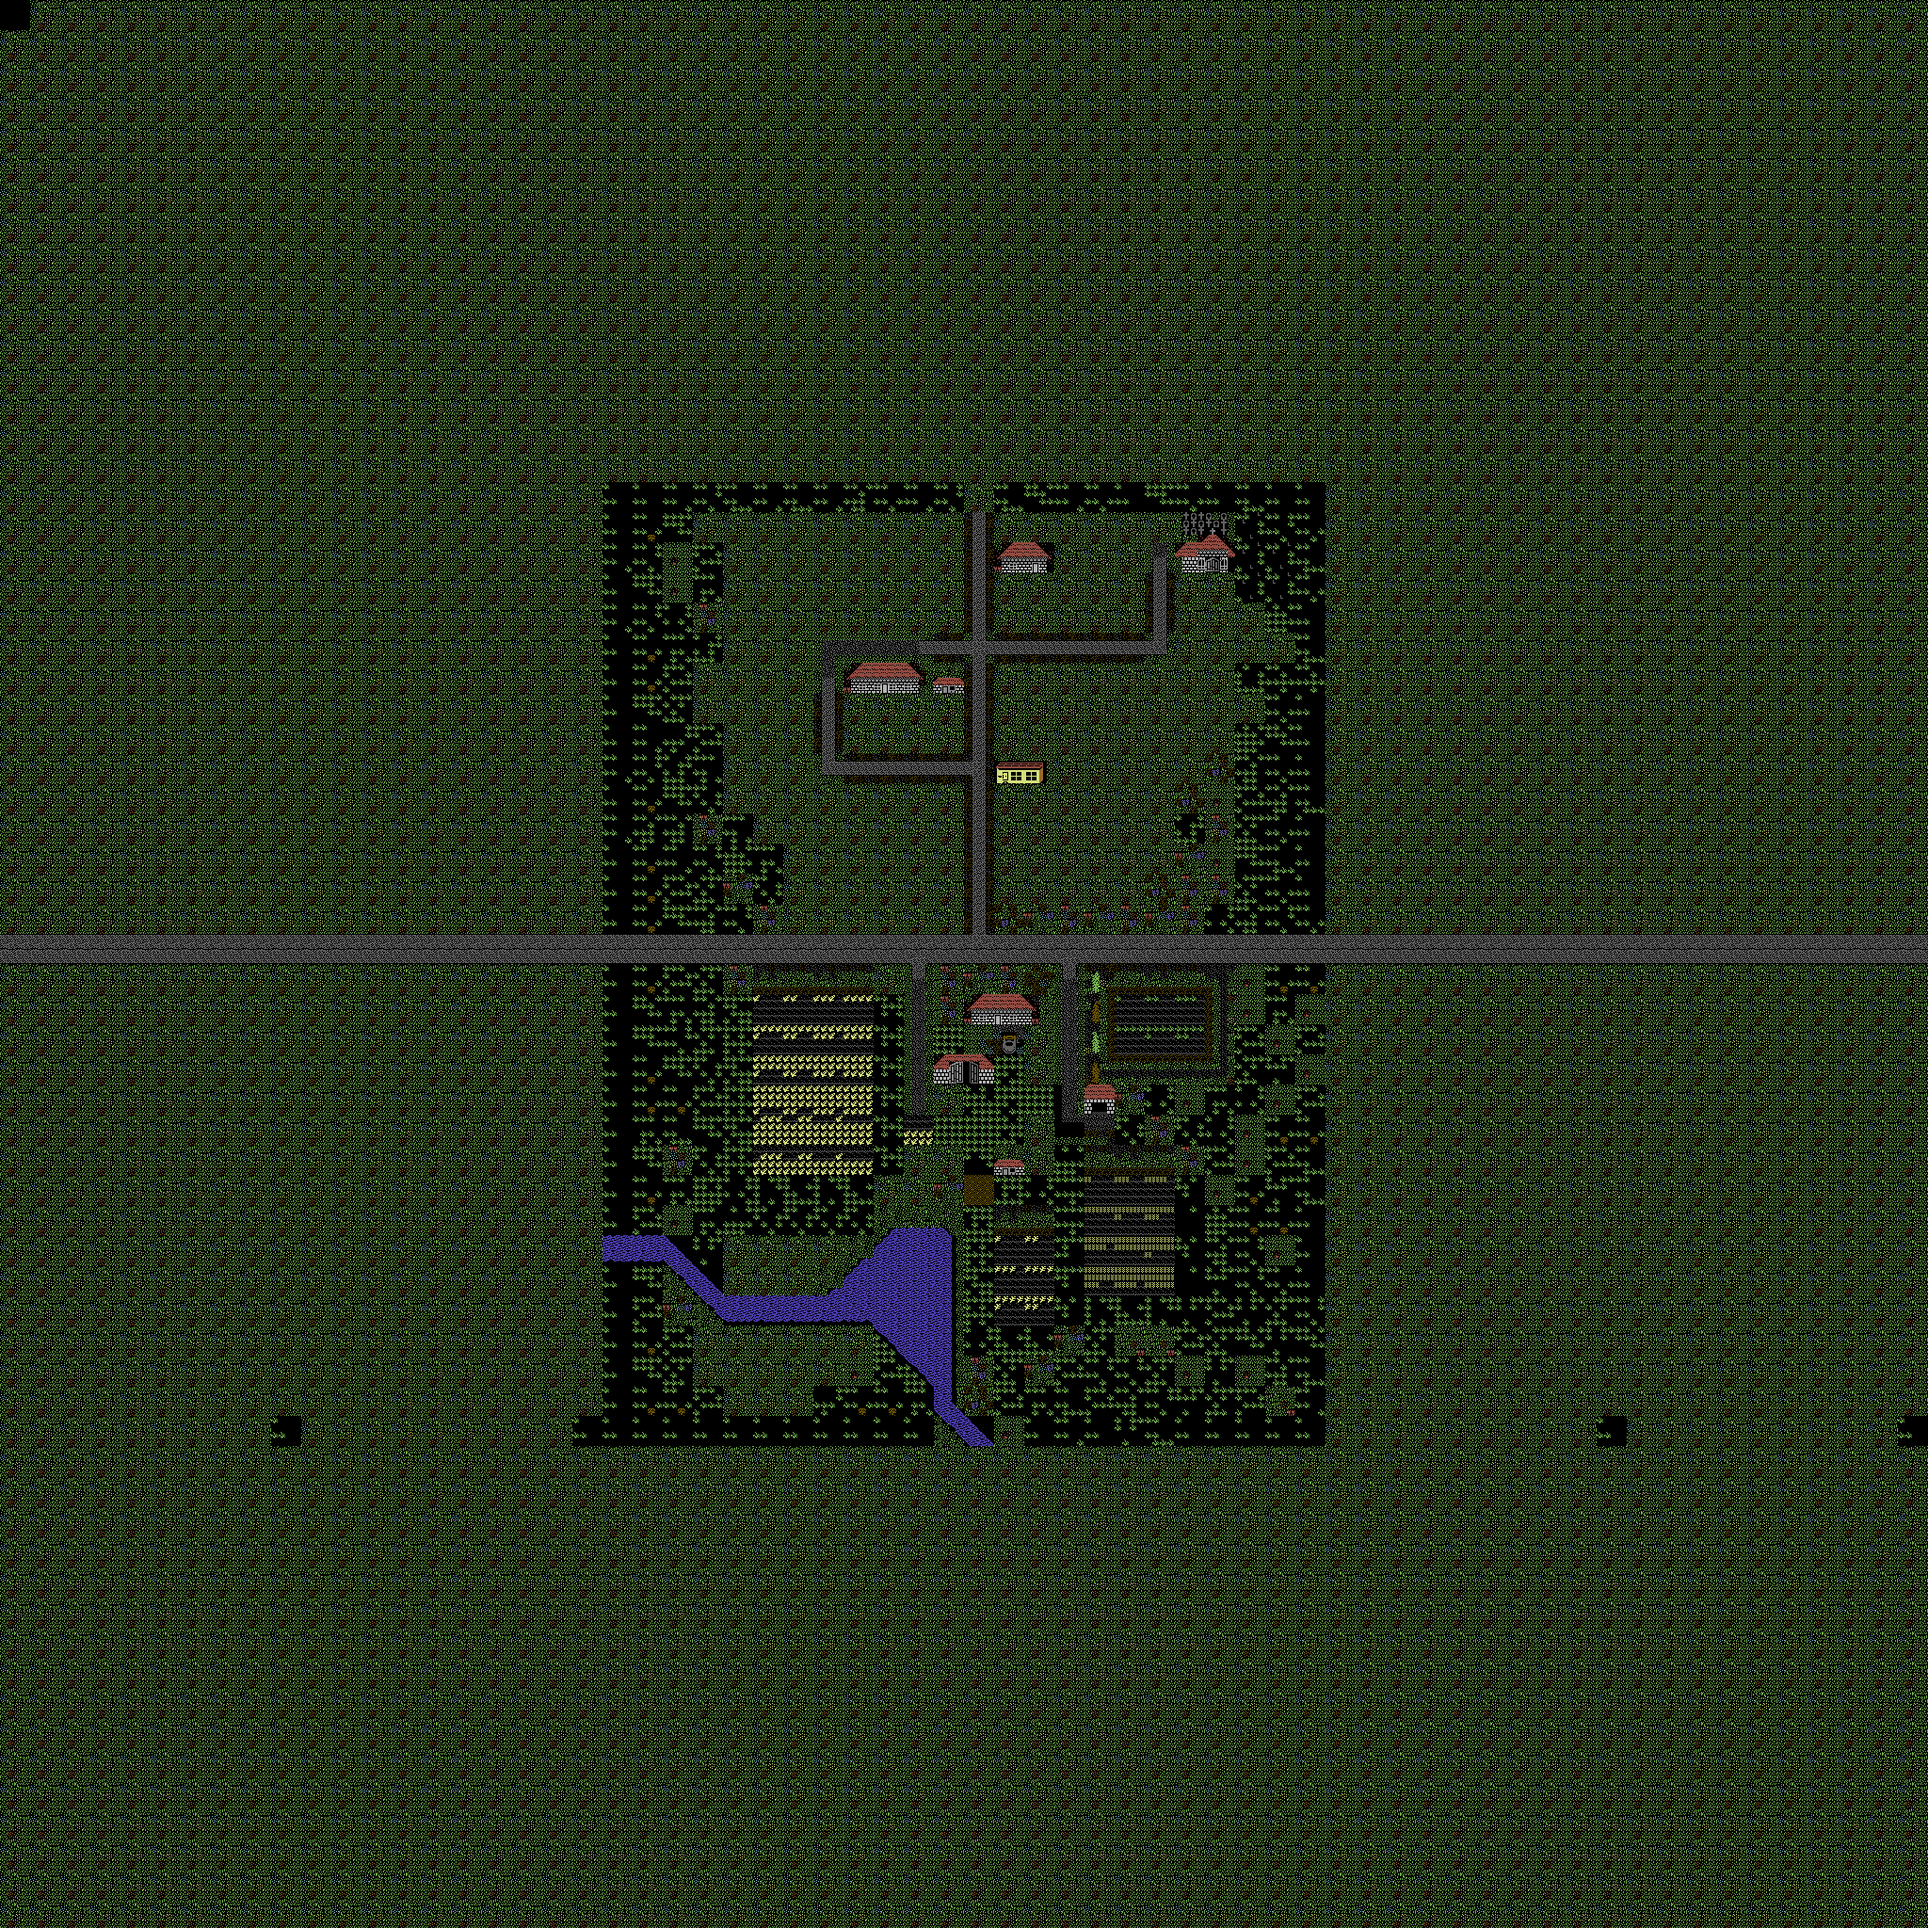
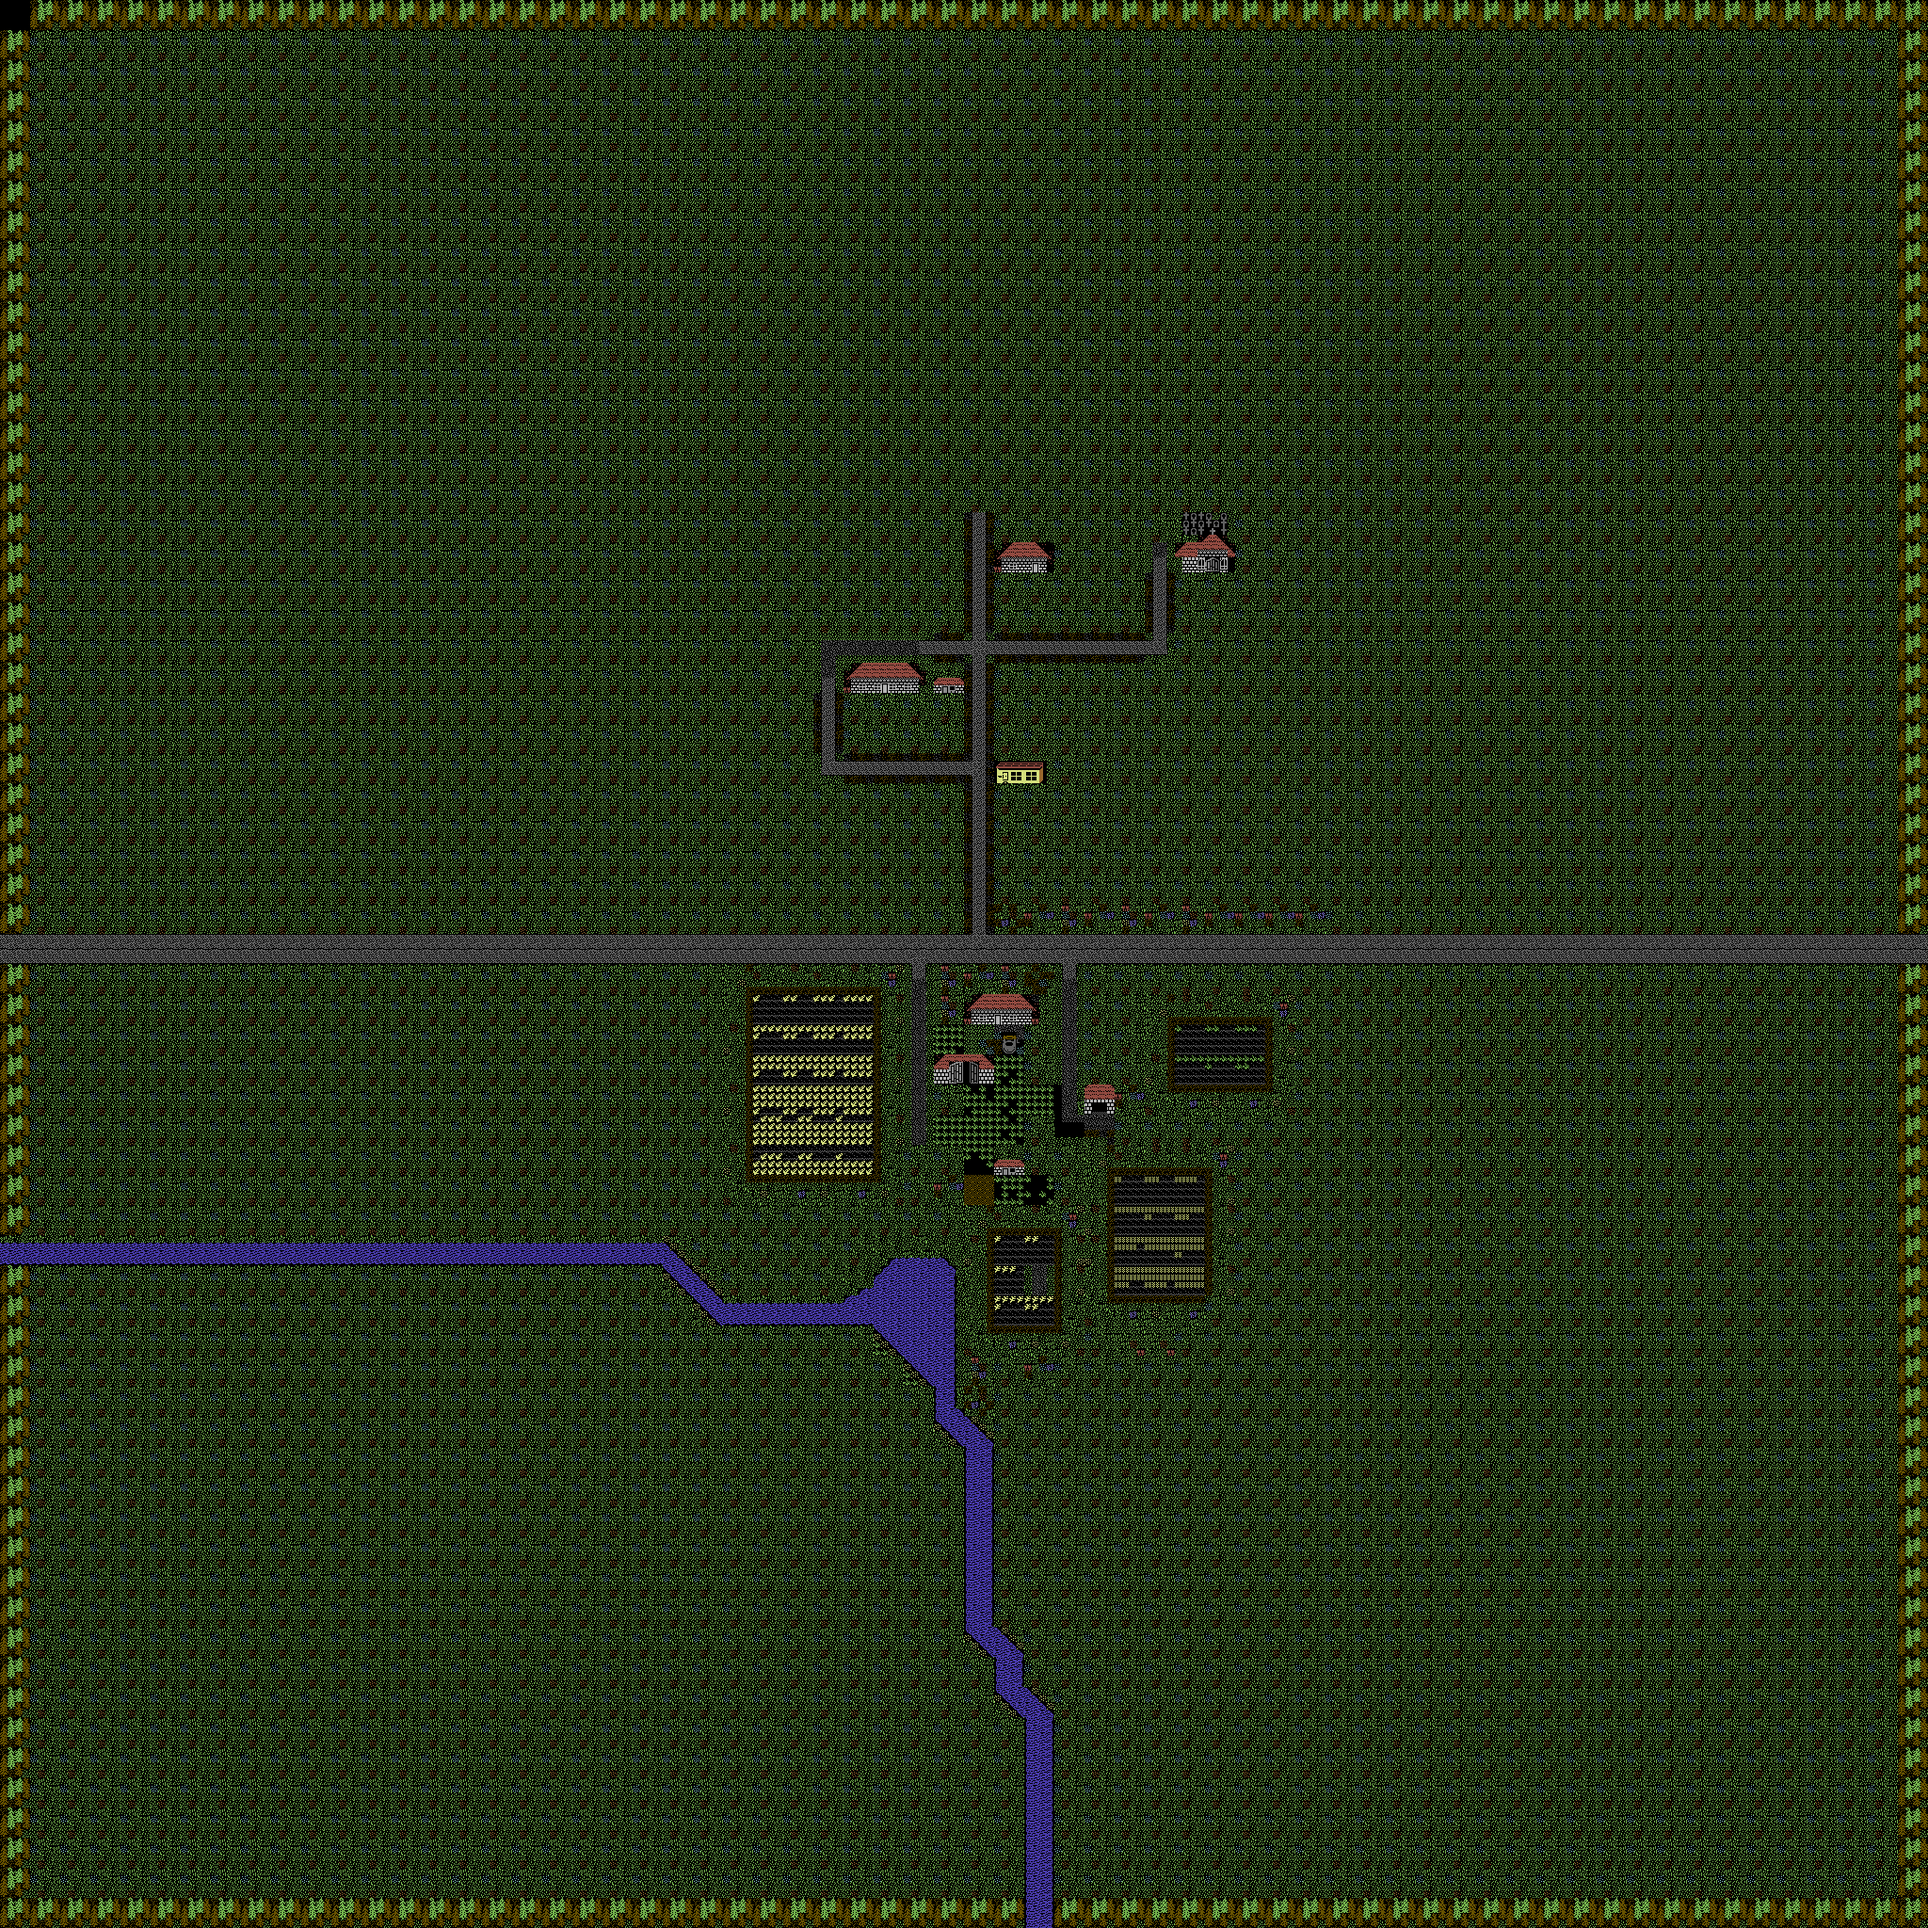
new maps

Changed region(s): [[0.0, 0.0, 1.0, 1.0], [0.8125, 0.7188, 0.8438, 0.75], [0.125, 0.7188, 0.1562, 0.75]]

diff --git a/miniGame/villiageMapMain.c b/miniGame/villiageMapMain.c
@@ -28,13 +28,13 @@ static const char _charAttribsL2[] = {
     #embed ctm_attr1    "assets/charGfx/HiresVilliage_L2.ctm"
 };
 static const char _charAttribsL3[] = {
-    #embed ctm_attr1    "assets/charGfx/VilliageMapHiresMainBig.ctm"
+    #embed ctm_attr1    "assets/charGfx/HiresVilliage_L3.ctm"
 };
 static const char _charAttribsL4[] = {
     #embed ctm_attr1    "assets/charGfx/HiresVilliage_L4.ctm"
 };
 static const char _chars[] = {
-    #embed ctm_chars    "assets/charGfx/VilliageMapHiresMainBig.ctm"
+    #embed ctm_chars    "assets/charGfx/HiresVilliage_L1.ctm"
 };
 
 
@@ -69,10 +69,10 @@ static void _mapInit(){
     // ROM on, I/O off - as we will copy to RAM under I/O ports
     mmap_set(0b00110011);
     memcpy(GFX_1_FNT2, _chars, sizeof(_chars));
-    memcpy(COLOR_MAP_1, _charAttribsL1, 0xff);
-    memcpy(COLOR_MAP_2, _charAttribsL2, 0xff);
-    memcpy(COLOR_MAP_3, _charAttribsL3, 0xff);
-    memcpy(COLOR_MAP_4, _charAttribsL4, 0xff);
+    memcpy(COLOR_MAP_1, _charAttribsL1, 0x100);
+    memcpy(COLOR_MAP_2, _charAttribsL2, 0x100);
+    memcpy(COLOR_MAP_3, _charAttribsL3, 0x100);
+    memcpy(COLOR_MAP_4, _charAttribsL4, 0x100);
     // turn ROMS and I/O back on, so that we don't get a problem when bank tries to be switched but I/O is not visible
     mmap_set(MMAP_ROM);
     vic.color_back = VCOL_BROWN;
@@ -112,11 +112,10 @@ void tiles_put4x4row0(char * dp, char * cp, const char * lmp, const char * mp, c
         {
             byte lightMap = lm[cx];
             char ci = ti[cx];
-            if(lightMap && ci >= 0xc0){
+            if(lightMap && ci >= 0x80){
                 ci += lightMap-1;
             }
             dp[cx] = ci;
-            cp[cx] = _moonlight;
             switch (lightMap){
                 case 0:
                     cp[cx] = _moonlight;

diff --git a/menu/villiageMap.c b/menu/villiageMap.c
@@ -19,7 +19,7 @@
 // Menu code
 // ---------------------------------------------------------------------------------------------
 #pragma code ( villiageMapCode )
-char vMapX = 10, vMapY = 10;
+char vMapX = 128, vMapY = 128;
 
 static void _villiageMapCodeLoader(){
     // source is where the regionVilliageMapRam section starts in real mem
